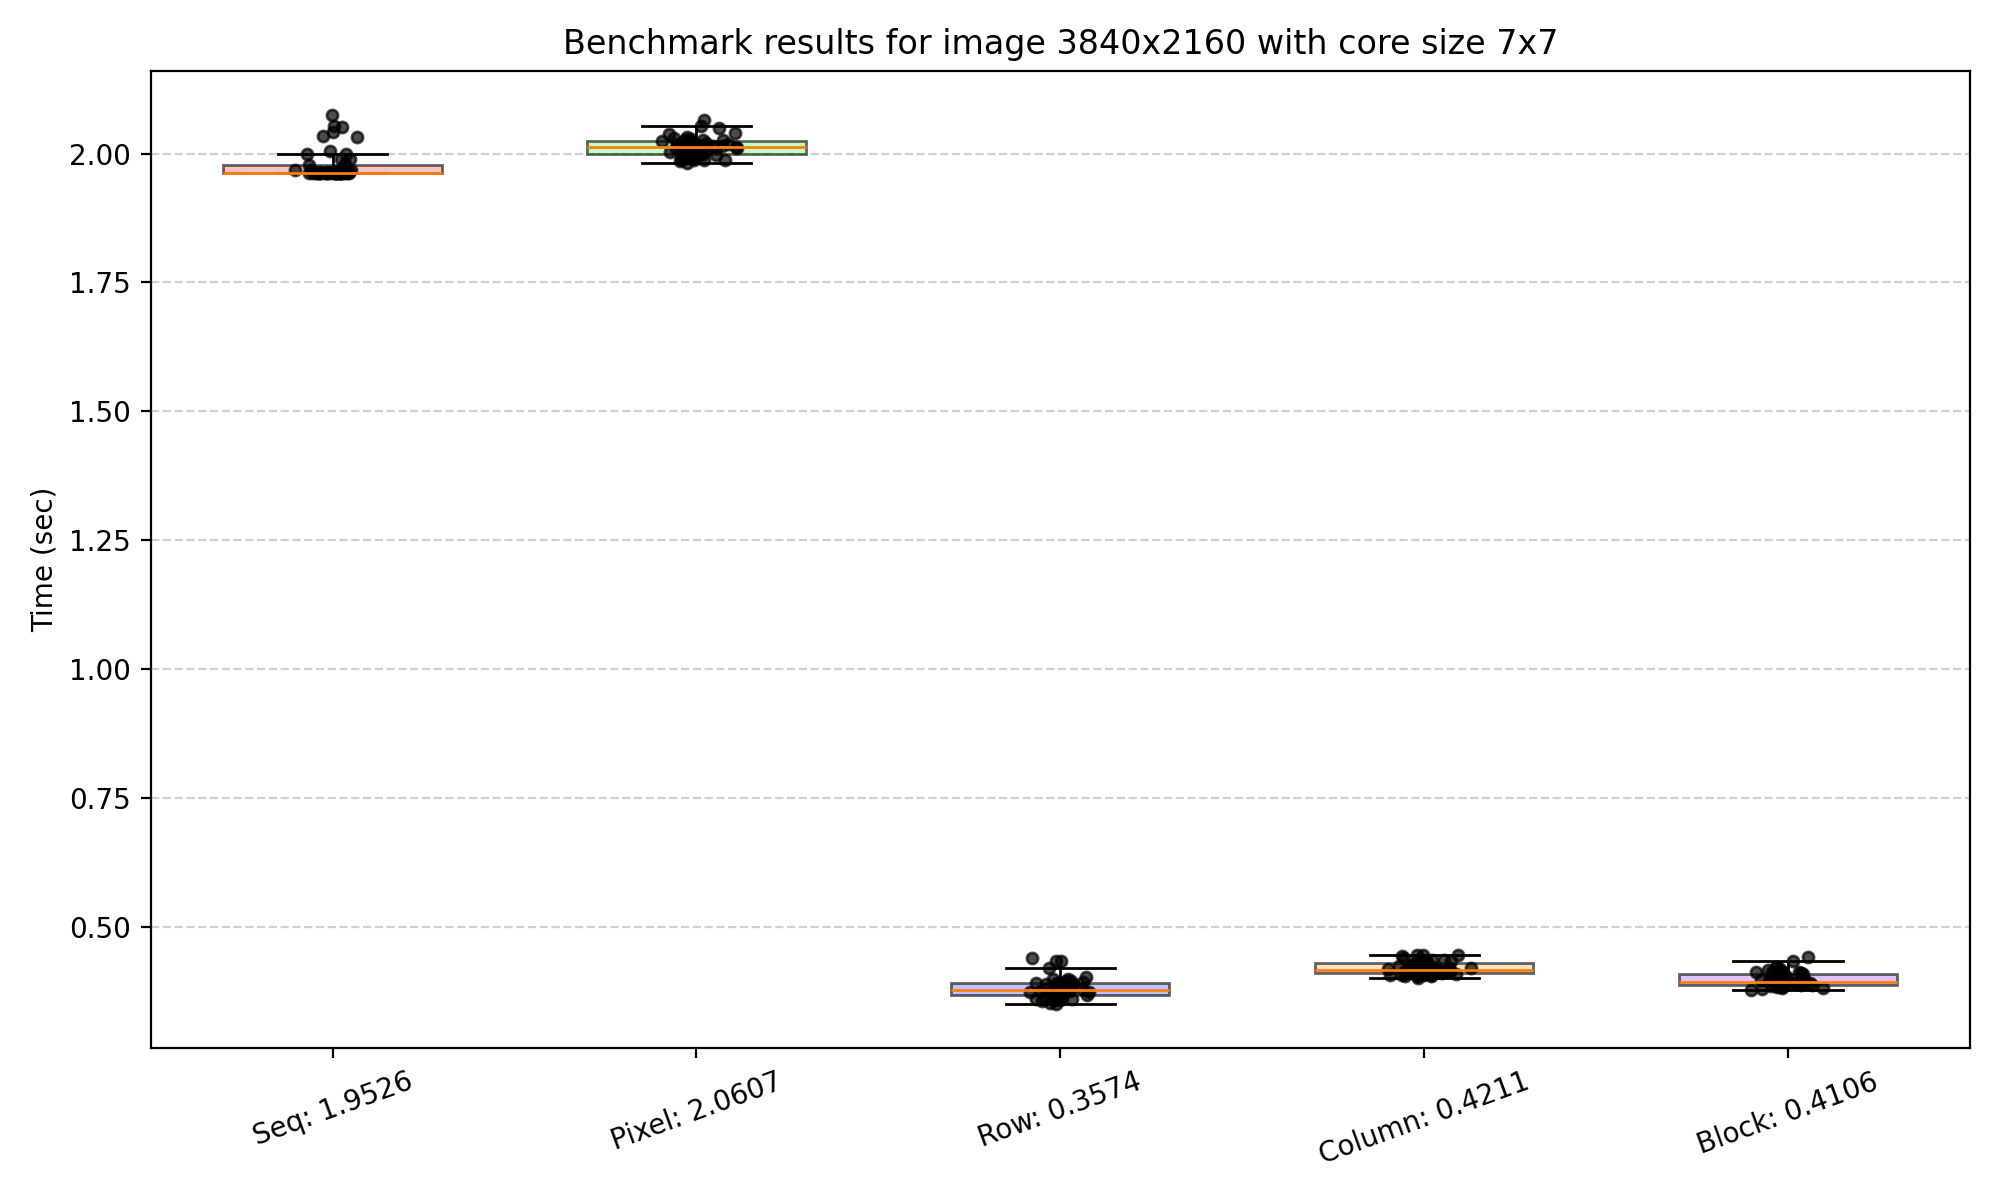
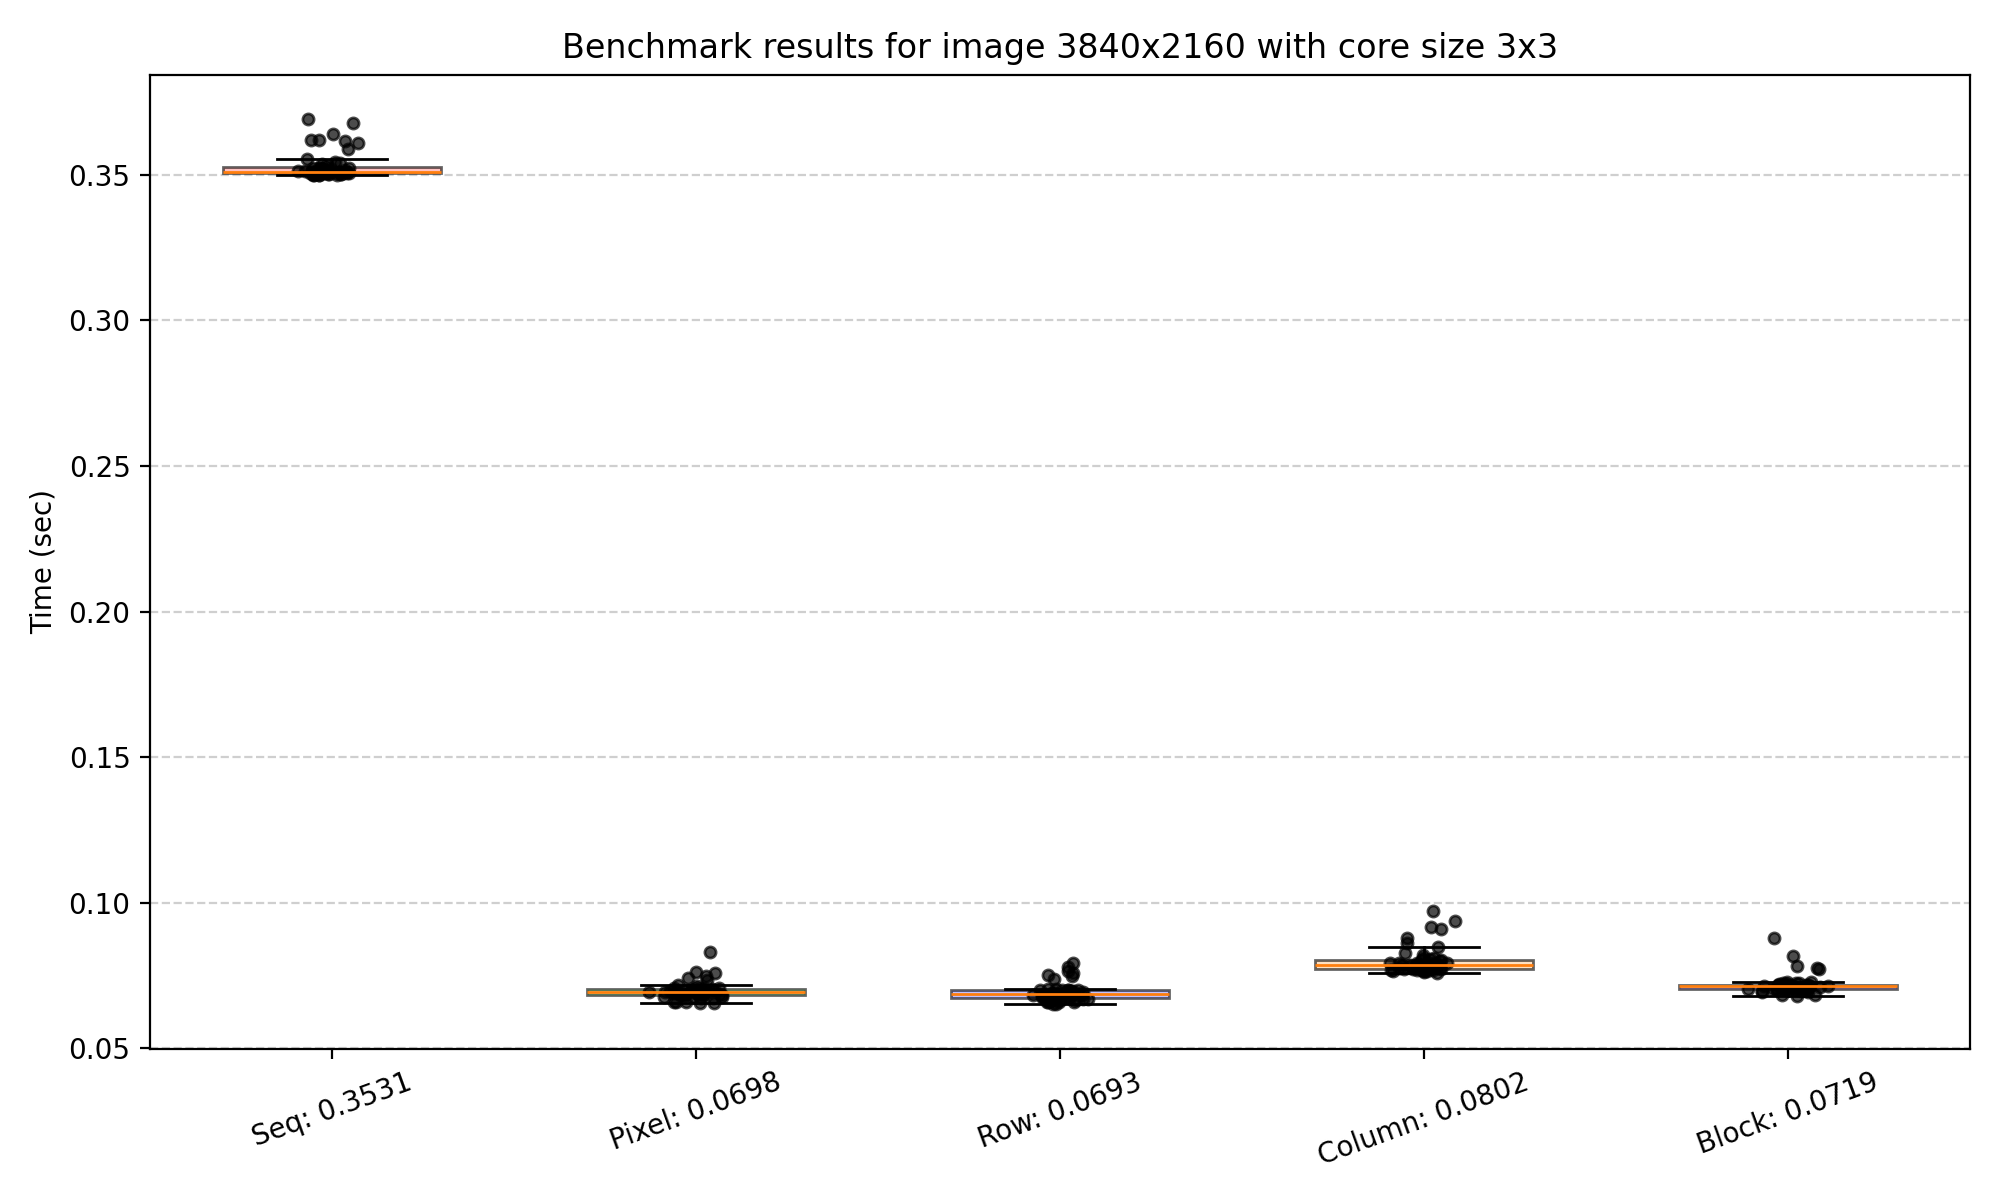
fix: correct block decomposition for block-parallel convolution fix: add missing OpenMP parallelisation to pixel-based convolution

diff --git a/src/proc_image.c b/src/proc_image.c
@@ -1,6 +1,8 @@
 #include <stdlib.h>
 #include <sys/stat.h>
 #include <omp.h>
+#include <float.h>
+#include <math.h>
 
 #include "proc_image.h"
 #include "proc_image_utils.h"
@@ -10,9 +12,9 @@
     int pixel_value = 0;                                                          \
     int start_x = x - kernel.size / 2;                                            \
     int start_y = y - kernel.size / 2;                                            \
-    for (size_t filter_y = 0; filter_y < kernel.size; filter_y++)                    \
+    for (size_t filter_y = 0; filter_y < kernel.size; filter_y++)                 \
     {                                                                             \
-        for (size_t filter_x = 0; filter_x < kernel.size; filter_x++)                \
+        for (size_t filter_x = 0; filter_x < kernel.size; filter_x++)             \
         {                                                                         \
             /* wrapping around */                                                 \
             int image_x = (start_x + filter_x + width) % width;                   \
@@ -25,6 +27,30 @@
     pixel_value = pixel_value * kernel.factor + kernel.bias;                      \
     result_image[y * width + x] =                                                 \
         (unsigned char)(pixel_value > 255.0 ? 255.0 : (pixel_value < 0.0 ? 0.0 : pixel_value));
+
+static void choose_block_grid(int N, int width, int height, int *rows, int *cols)
+{
+    int best_rows = 1, best_cols = N;
+    double best_aspect = DBL_MAX;
+    for (int r = 1; r <= N; r++)
+    {
+        if (N % r == 0)
+        {
+            int c = N / r;
+            double block_w = (double)width / c;
+            double block_h = (double)height / r;
+            double aspect_diff = fmax(block_w / block_h, block_h / block_w);
+            if (aspect_diff < best_aspect)
+            {
+                best_aspect = aspect_diff;
+                best_rows = r;
+                best_cols = c;
+            }
+        }
+    }
+    *rows = best_rows;
+    *cols = best_cols;
+}
 
 void seq_conv(unsigned char *image_data, int width, int height, Kernel kernel, unsigned char *result_image)
 {
@@ -66,6 +92,7 @@ void column_parallel_conv(unsigned char *image_data, int width, int height, Kern
 void pixel_parallel_conv(unsigned char *image_data, int width, int height, Kernel kernel, unsigned char *result_image)
 {
 
+#pragma omp parallel for
     for (int pixel_id = 0; pixel_id < width * height; pixel_id++)
     {
         int x = pixel_id % width;
@@ -78,64 +105,29 @@ void pixel_parallel_conv(unsigned char *image_data, int width, int height, Kerne
 void block_parallel_conv(unsigned char *image_data, int width, int height, Kernel kernel, unsigned char *result_image)
 {
 
-// создаем потоки заранее для того, чтобы узнать их количество, так как хотим динамически задать
-// количество блоков на основе количества потоков, чтобы обеспечить работой каждый поток (load-balance).
 #pragma omp parallel
     {
 
-        int num_threads = omp_get_num_threads();
-        int blocks_amount;
-        int blocks_row_amount;
-        int blocks_column_amount;
-        int block_width;
-        int block_height;
-
-        if (num_threads % 2 == 0)
-        {
-            blocks_amount = num_threads;
-        }
-        else
-        {
-            blocks_amount = num_threads * 2;
-        }
-
-        if (width <= height)
-        {
-            blocks_column_amount = 2;
-            blocks_row_amount = blocks_amount / 2;
-            block_width = width / blocks_column_amount;
-            block_height = height / blocks_row_amount;
-        }
-        else
-        {
-            blocks_row_amount = 2;
-            blocks_column_amount = blocks_amount / 2;
-            block_width = width / blocks_column_amount;
-            block_height = height / blocks_row_amount;
-        }
+        int blocks_count = omp_get_num_threads();
+        int grid_rows;
+        int grid_cols;
+        choose_block_grid(blocks_count, width, height, &grid_rows, &grid_cols);
+        int block_h = height / grid_rows;
+        int block_w = width / grid_cols;
 
 #pragma omp for
-        for (int block_id = 0; block_id < blocks_amount; block_id++)
+        for (int block_id = 0; block_id < blocks_count; block_id++)
         {
-            int block_x;
-            int block_y;
-            if (blocks_column_amount == 2)
-            {
-                block_x = block_id / blocks_row_amount;
-                block_y = block_id % blocks_row_amount;
-            }
-            else
-            {
-                block_x = block_id % blocks_column_amount;
-                block_y = block_id / blocks_column_amount;
-            }
 
-            for (int y = block_y * block_height; y < (block_y + 1) * block_height ||
-                                                 ((block_y + 1) == blocks_row_amount && y < height);
+            int block_x = block_id % grid_cols;
+            int block_y = block_id / grid_cols;
+
+            for (int y = block_y * block_h; (y < (block_y + 1) * block_h) ||
+                                            (block_y + 1 == grid_rows && y < height);
                  y++)
             {
-                for (int x = block_x * block_width; x < (block_x + 1) * block_width ||
-                                                    ((block_x + 1) == blocks_column_amount && x < width);
+                for (int x = block_x * block_w; (x < (block_x + 1) * block_w) ||
+                                                (block_x + 1 == grid_cols && x < width);
                      x++)
 
                 {

diff --git a/benchmark/plot.py b/benchmark/plot.py
@@ -3,20 +3,25 @@ import numpy as np
 
 methods = []
 data = []
+means = []
 
-filename = "results1"
+filename = "results3"
 
 with open(filename + ".csv") as f:
     for line in f:
-        parts = line.strip().split(",")
+        parts = line.strip().split(":")
         if not parts or len(parts) < 2:
             continue
+        results = parts[1].strip().split(",")
         method = parts[0]
-        values = [float(x) for x in parts[1:]]
+        values = [float(x) for x in results]
         methods.append(method)
         data.append(values)
+        means.append(np.mean(values))
 
 fig, ax = plt.subplots(figsize=(10, 6))
+
+labels = [f"{methods[i]}: {means[i]:.4f}" for i in range(len(methods))]
 
 # boxplot
 bp = ax.boxplot(
@@ -37,9 +42,9 @@ for i, d in enumerate(data, start=1):
     ax.plot(x, d, "o", markersize=4, alpha=0.7, color="black")
 
 ax.set_xticks(np.arange(1, len(methods) + 1))
-ax.set_xticklabels(methods, rotation=20)
+ax.set_xticklabels(labels, rotation=20)
 ax.set_ylabel("Time (sec)")
-ax.set_title("Benchmark results for image 569x339 with core size 3x3")
+ax.set_title("Benchmark results for image 7680x4320 with core size 3x3")
 
 plt.grid(True, axis="y", linestyle="--", alpha=0.6)
 plt.tight_layout()

diff --git a/README.md b/README.md
@@ -92,21 +92,21 @@ make test
 <p align="center">
   <img src="benchmark/results1.png" alt="Bench 1" width="800" style="border: 1px solid #ddd; border-radius: 4px;">
   <br>
-  <em>Small image + small core</em>
+  <em>Small image</em>
 </p>
 
 #### Bench 2
 <p align="center">
   <img src="benchmark/results2.png" alt="Bench 2" width="800" style="border: 1px solid #ddd; border-radius: 4px;">
   <br>
-  <em>Medium image + medium core</em>
+  <em>Medium image</em>
 </p>
 
 #### Bench 3
 <p align="center">
   <img src="benchmark/results3.png" alt="Bench 3" width="800" style="border: 1px solid #ddd; border-radius: 4px;">
   <br>
-  <em>Big image + small core</em>
+  <em>Big image</em>
 </p>
 
 
@@ -114,16 +114,16 @@ make test
 
 #### Row mode
 
-* Row mode makes the best use of spatial cache locality, resulting in the fewest cache misses. It consistently delivers the best performance across all image sizes and kernel sizes.
-
-#### Column mode
-
-* For relatively small images (those that fit into the cache of the test hardware), column mode performs comparably to row and block modes. However, for large images that exceed cache capacity, its performance degrades significantly — becoming more than twice as slow as row and block modes.
-
-#### Block mode
-
-* Block mode demonstrates strong performance on images of any size, achieving results comparable to row mode. It also exhibits good spatial locality, making it a reliable choice across different workloads.
+* Row‑based parallelisation makes very good use of spatial cache locality, which results in few cache misses. It consistently delivers among the best performance across all image sizes.
 
 #### Pixel mode
 
-* This parallelization strategy provides no speedup compared to the sequential implementation. In some cases, it is even slightly slower due to the high overhead of parallelization at the individual pixel level.
+* Pixel‑based parallelisation strategy yields almost identical performance to the row‑based strategy. Both approaches traverse the image in row‑major order, preserving spatial locality and sequential memory access. The only difference is that in the row‑based strategy, threads are assigned whole rows, whereas in the pixel‑based strategy, threads receive whole rows plus possibly a partial row at the edges.
+
+#### Column mode
+
+* For relatively small images (those that fit into the cache of the test hardware), column mode performs comparably to row and block modes. However, for large images that exceed cache capacity, its performance degrades significantly — becoming more than twice as slow as other parallel modes.
+
+#### Block mode
+
+* Block mode demonstrates solid performance on images of any size, achieving results close to those of row and pixel modes, though slightly below them. It also exhibits good spatial cache locality, making it a reliable choice across different workloads
